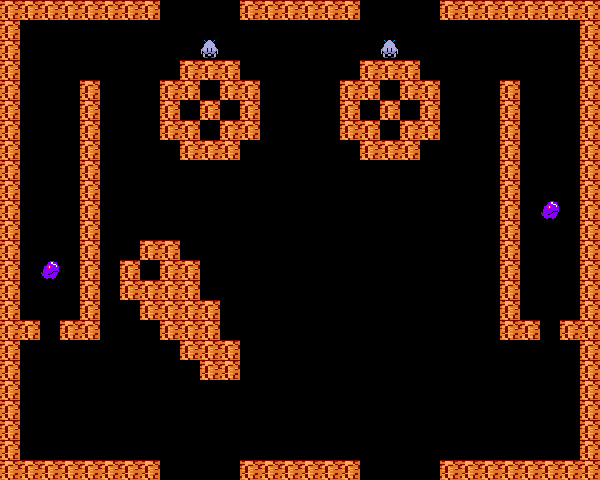
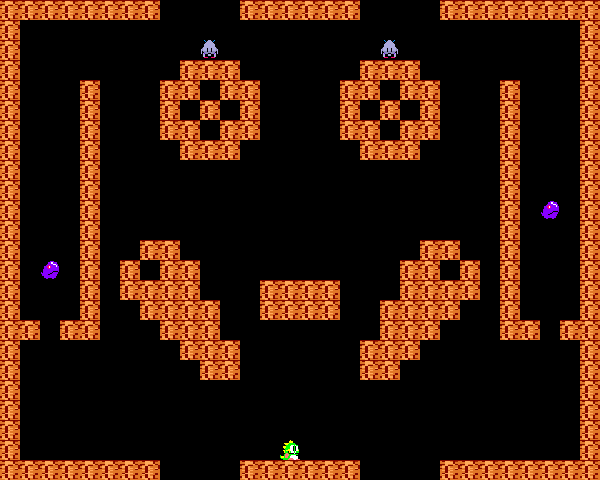
New levels, Minor Invader Fix, Modify Playing
Ora i cheat possono essere aperti durante il gioco premendo ctrl

Changed region(s): [[0.6, 0.5, 0.81, 0.8125], [0.42, 0.5625, 0.57, 0.6875], [0.45, 0.9062, 0.51, 0.9688]]

diff --git a/JBubbleBobble/src/game/model/enemies/EnemyManager.java b/JBubbleBobble/src/game/model/enemies/EnemyManager.java
@@ -114,16 +114,17 @@ public class EnemyManager {
 	public void updateEnemies() {
 		enemies.stream().forEach(Enemy::updateEntity);
 		lasers.stream().forEach(Laser::updateEntity);
-		if (shootLaserTimer == null && numberOfInvaders() != 0) {
+		// Filter the list of enemies to only include Invaders
+		List<Invader> invaders = enemies.stream().filter(e -> e instanceof Invader invader && !invader.isDead())
+				.map(e -> (Invader) e).toList();
+		if (shootLaserTimer == null && invaders.size() != 0) {
 			shootLaserTimer = new Timer("Shoot laser");
 			shootLaserTimer.schedule(new TimerTask() {
 				@Override
 				public void run() {
-					enemies.stream().forEach(x -> {
-						if (x instanceof Invader invader)
-							invader.shoot();
-					});
-					shootLaserTimer.cancel();;
+					invaders.forEach(Invader::shoot);
+					shootLaserTimer.cancel();
+					;
 					shootLaserTimer = null;
 				}
 			}, 500);
@@ -140,7 +141,7 @@ public class EnemyManager {
 			}, 15000);
 		}
 	}
-	
+
 	public boolean isBoss() {
 		return enemies.stream().anyMatch(e -> e instanceof Boss);
 	}

diff --git a/JBubbleBobble/src/game/controller/gamestates/Playing.java b/JBubbleBobble/src/game/controller/gamestates/Playing.java
@@ -102,9 +102,8 @@ public class Playing extends State implements Statemethods {
 			if (!Model.getInstance().getCurrentLevel().getPlayer().isStunned())
 				Model.getInstance().getCurrentLevel().getPlayer().shoot();
 			break;
-		case KeyEvent.VK_N:
+		case KeyEvent.VK_CONTROL:
 			ActionListenersManager.enableCheats().actionPerformed(null);
-			System.out.println("enable cheats");
 		}
 		
 	}
